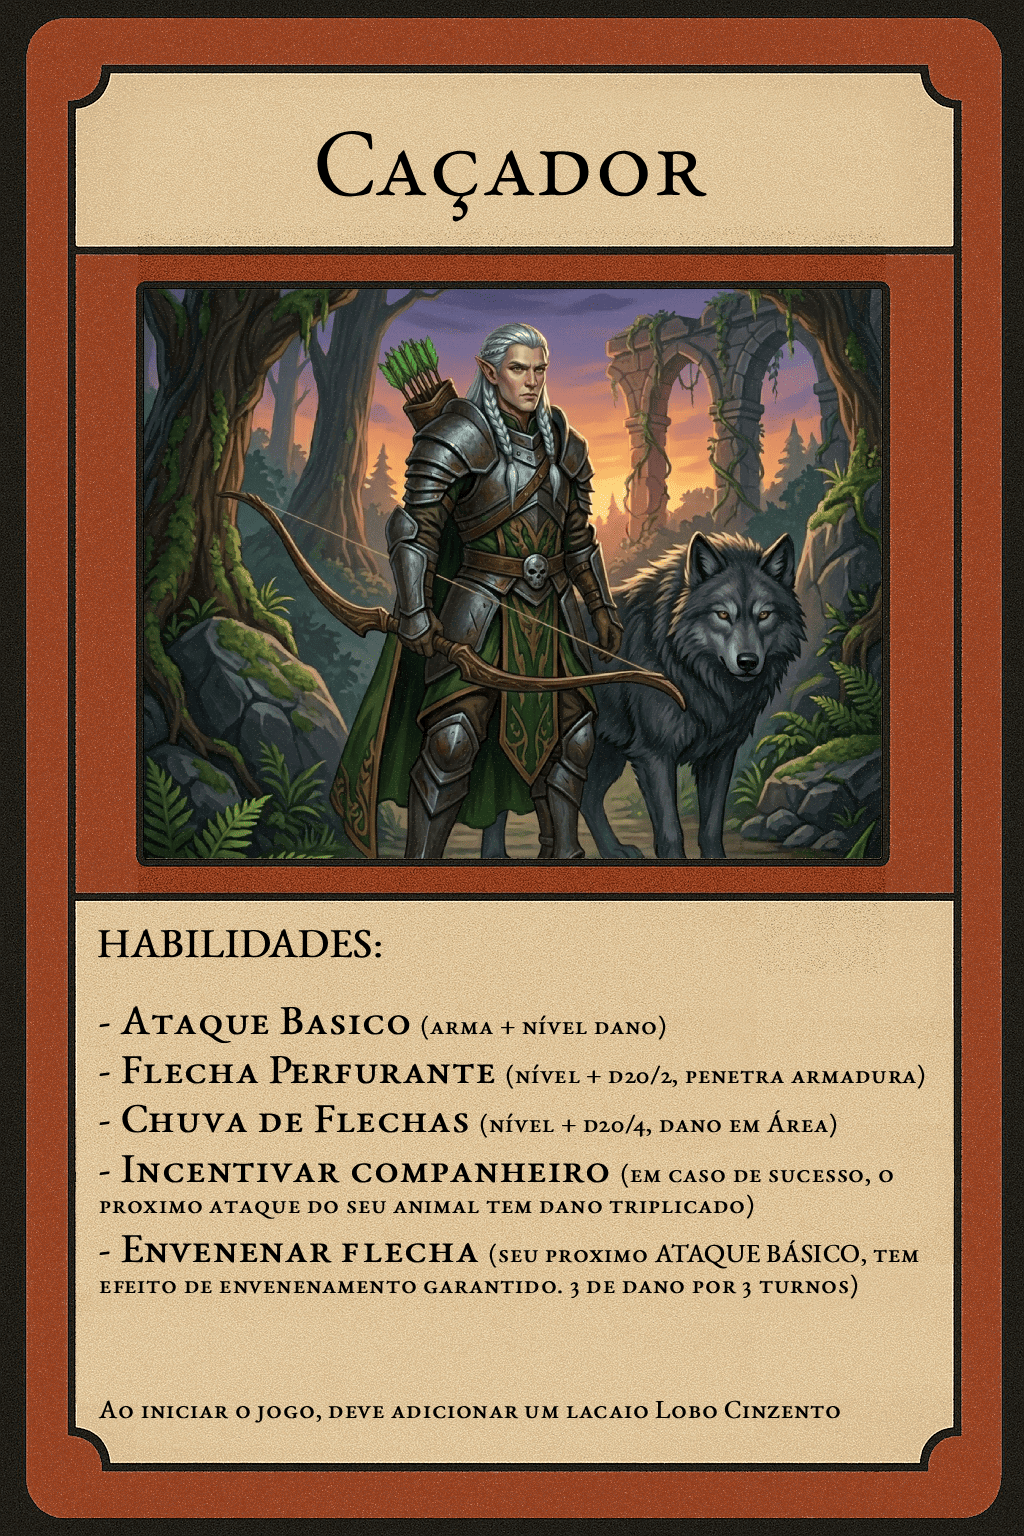
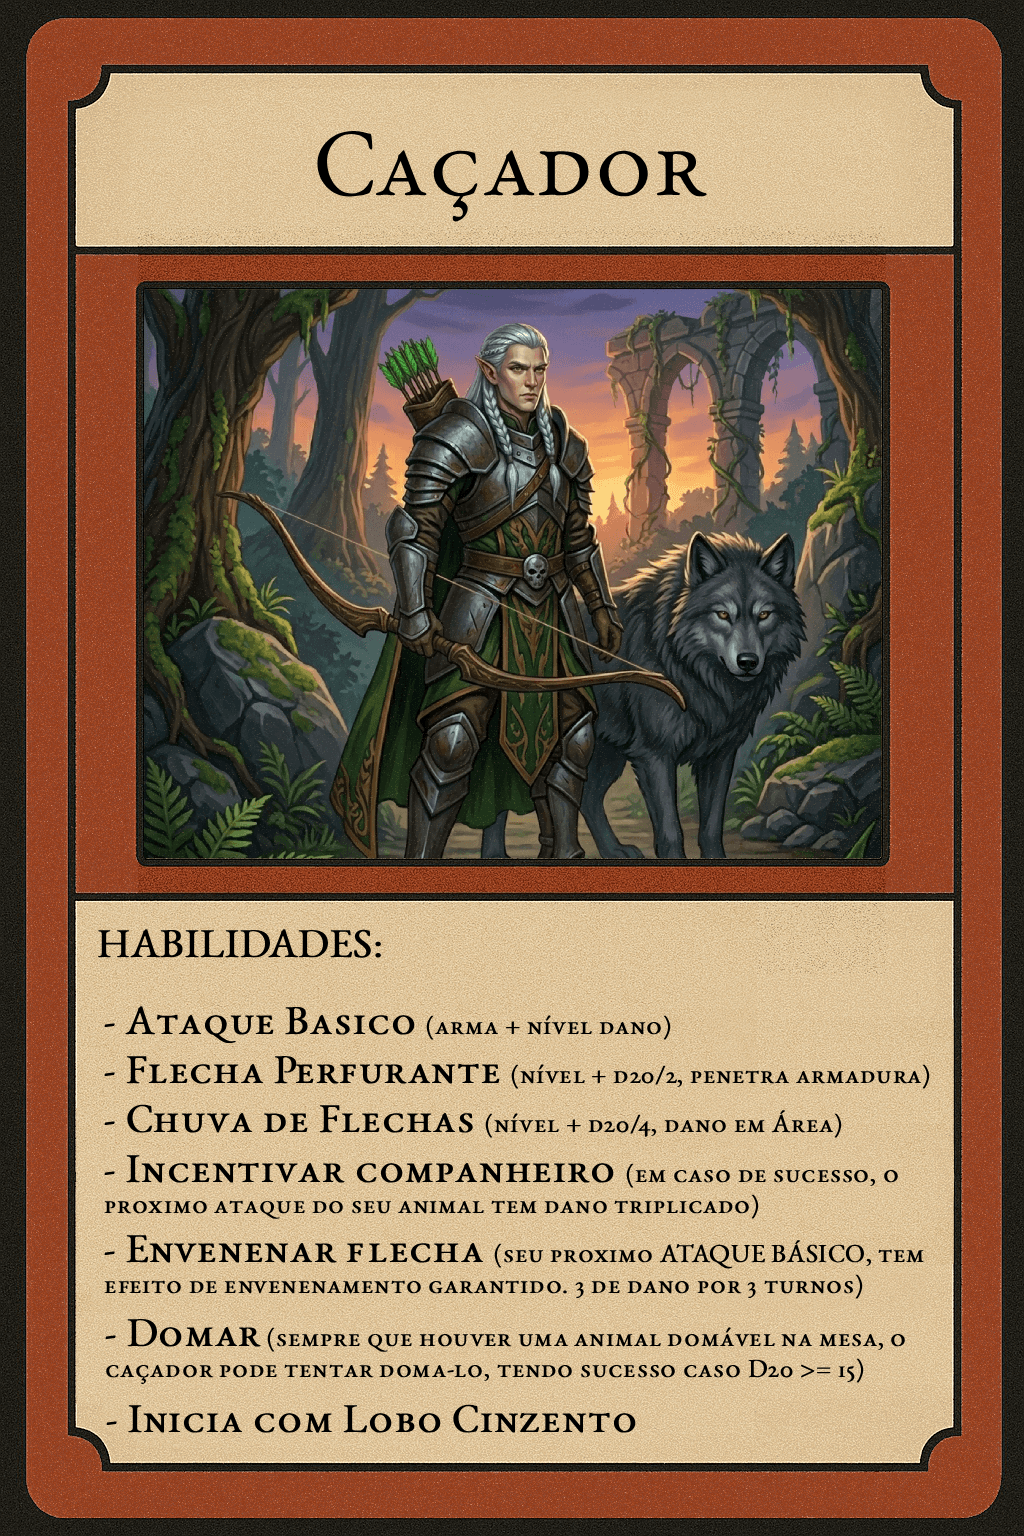
Adjusting some cards and adding new servants

diff --git a/src/app/static/cards.ts b/src/app/static/cards.ts
@@ -25,59 +25,62 @@ export class Cards {
         new CardModel(3, "Aracnofobia", '/assets/cards/vd/aracnofobia.png', false, 0),
         new CardModel(4, "Abençoado", '/assets/cards/vd/blessed.png', false, 0),
         new CardModel(5, "Reflexos de Gato", '/assets/cards/vd/cat-reflexes.png', false, 0),
-        new CardModel(6, "Cleptomaniaco", '/assets/cards/vd/cleptomaniac.png', false, 0),
-        new CardModel(7, "Sorte Dupla", '/assets/cards/vd/double-luck.png', false, 0),
-        new CardModel(8, "Aura Amedrontadora", '/assets/cards/vd/fearsome-aura.png', false, 0),
-        new CardModel(9, "Metamorfose Parcial", '/assets/cards/vd/half-metamorfosis.png', false, 0),
-        new CardModel(10, "Dom de Cura", '/assets/cards/vd/healing-gift.png', false, 0),
-        new CardModel(11, "Vício em Alquimia", '/assets/cards/vd/mad-alchemist.png', false, 0),
-        new CardModel(12, "Medo do Escuro", '/assets/cards/vd/fear-of-dark.png', false, 0),
-        new CardModel(13, "Visão Noturna", '/assets/cards/vd/night-vision.png', false, 0),
-        new CardModel(14, "Vampirismo", '/assets/cards/vd/vampirism.png', false, 0),
-        new CardModel(15, "Grito de Guerra", '/assets/cards/vd/war-scream.png', false, 0),
-        new CardModel(16, "Perito em Armas", '/assets/cards/vd/weapon-master.png', false, 0),
+        new CardModel(6, "Sorte Dupla", '/assets/cards/vd/double-luck.png', false, 0),
+        new CardModel(7, "Aura Amedrontadora", '/assets/cards/vd/fearsome-aura.png', false, 0),
+        new CardModel(8, "Metamorfose Parcial", '/assets/cards/vd/half-metamorfosis.png', false, 0), //Adicionar + 2 de dano desarmado
+        new CardModel(9, "Dom de Cura", '/assets/cards/vd/healing-gift.png', false, 0),
+        new CardModel(10, "Medo do Escuro", '/assets/cards/vd/fear-of-dark.png', false, 0),
+        new CardModel(11, "Visão Noturna", '/assets/cards/vd/night-vision.png', false, 0),
+        new CardModel(12, "Vampirismo", '/assets/cards/vd/vampirism.png', false, 0),
+        new CardModel(13, "Grito de Guerra", '/assets/cards/vd/war-scream.png', false, 0),
+        new CardModel(14, "Perito em Armas", '/assets/cards/vd/weapon-master.png', false, 0), // Adicionar + 2 de dano com arma, e -2 de dano desarmado
+        //new CardModel(15, "Cleptomaniaco", '/assets/cards/vd/cleptomaniac.png', false, 0),
+        //new CardModel(16, "Vício em Alquimia", '/assets/cards/vd/mad-alchemist.png', false, 0),
     ];
 
     public itens = [
-        new CardModel(1, "Adaga Básica", '/assets/cards/itens/adaga-basica.png', true, 1, 'melee', 3),
-        new CardModel(2, "Adaga do Adepto", '/assets/cards/itens/adaga-adepto.png', true, 2, 'melee', 3),
-        new CardModel(3, "Adaga Avançada", '/assets/cards/itens/adaga-avancada.png', true, 3, 'melee', 3),
-        new CardModel(4, "Cajado Básico", '/assets/cards/itens/cajado-basico.png', true, 1, 'magic', 1),
-        new CardModel(5, "Cajado do Adepto", '/assets/cards/itens/cajado-adepto.png', true, 2, 'magic', 1),
-        new CardModel(6, "Cajado Avançado", '/assets/cards/itens/cajado-avancado.png', true, 3, 'magic', 1),
-        new CardModel(7, "Espada Básica", '/assets/cards/itens/espada-basica.png', true, 1, 'melee', 2),
-        new CardModel(8, "Espada do Adepto", '/assets/cards/itens/espada-adepto.png', true, 2, 'melee', 2),
-        new CardModel(9, "Espada Avançada", '/assets/cards/itens/espada-avancada.png', true, 3, 'melee', 2),
-        new CardModel(10, "Tomo Básico", '/assets/cards/itens/tomo-basico.png', true, 1, 'magic', 4),
-        new CardModel(11, "Tomo do Adepto", '/assets/cards/itens/tomo-adepto.png', true, 2, 'magic', 4),
-        new CardModel(12, "Tomo Avançado", '/assets/cards/itens/tomo-avancado.png', true, 3, 'magic', 4),
+        // armas: lootWeight 3/3/1 = tier de dano (1 / 2 / 3)
+        new CardModel(1, "Adaga Básica", '/assets/cards/itens/adaga-basica.png', true, 1, 'melee', 3, 3, false),
+        new CardModel(2, "Adaga do Adepto", '/assets/cards/itens/adaga-adepto.png', true, 2, 'melee', 3, 3, false),
+        new CardModel(3, "Adaga Avançada", '/assets/cards/itens/adaga-avancada.png', true, 3, 'melee', 3, 1, false),
+        new CardModel(4, "Cajado Básico", '/assets/cards/itens/cajado-basico.png', true, 1, 'magic', 1, 3, false),
+        new CardModel(5, "Cajado do Adepto", '/assets/cards/itens/cajado-adepto.png', true, 2, 'magic', 1, 3, false),
+        new CardModel(6, "Cajado Avançado", '/assets/cards/itens/cajado-avancado.png', true, 3, 'magic', 1, 1, false),
+        new CardModel(7, "Espada Básica", '/assets/cards/itens/espada-basica.png', true, 1, 'melee', 2, 3, false),
+        new CardModel(8, "Espada do Adepto", '/assets/cards/itens/espada-adepto.png', true, 2, 'melee', 2, 3, false),
+        new CardModel(9, "Espada Avançada", '/assets/cards/itens/espada-avancada.png', true, 3, 'melee', 2, 1, false),
+        new CardModel(10, "Tomo Básico", '/assets/cards/itens/tomo-basico.png', true, 1, 'magic', 4, 3, false),
+        new CardModel(11, "Tomo do Adepto", '/assets/cards/itens/tomo-adepto.png', true, 2, 'magic', 4, 3, false),
+        new CardModel(12, "Tomo Avançado", '/assets/cards/itens/tomo-avancado.png', true, 3, 'magic', 4, 1, false),
+        // consumíveis: lootWeight omitido = 8 (comum); mais baixo = mais raro no baú
         new CardModel(13, "Bomba de Fumaça", '/assets/cards/itens/bomba-fumaca.png', false, 0),
-        new CardModel(14, "Coração de Dragão", '/assets/cards/itens/coracao-dragao.png', false, 0),
+        new CardModel(14, "Coração de Dragão", '/assets/cards/itens/coracao-dragao.png', false, 0, null, 0, 1), //muito raro
         new CardModel(15, "Óleo de Lentidão", '/assets/cards/itens/oleo-lentidao.png', false, 0),
-        new CardModel(16, "Pergaminho da Morte", '/assets/cards/itens/pergaminho-morte.png', false, 0),
-        new CardModel(17, "Pergaminho de Retorno", '/assets/cards/itens/pergaminho-retorno.png', false, 0),
-        new CardModel(18, "Poção Explosiva", '/assets/cards/itens/pocao-explosiva.png', false, 0),
+        new CardModel(16, "Pergaminho da Morte", '/assets/cards/itens/pergaminho-morte.png', false, 0, null, 0, 1), //muito raro
+        new CardModel(17, "Pergaminho de Retorno", '/assets/cards/itens/pergaminho-retorno.png', false, 0, null, 0, 3), //raro
+        new CardModel(18, "Poção Explosiva", '/assets/cards/itens/pocao-explosiva.png', false, 0, null, 0, 3),
         new CardModel(19, "Poção de Força", '/assets/cards/itens/pocao-forca.png', false, 0),
-        new CardModel(20, "Poção da Invisibilidade", '/assets/cards/itens/pocao-invisibilidade.png', false, 0),
+        new CardModel(20, "Poção da Invisibilidade", '/assets/cards/itens/pocao-invisibilidade.png', false, 0, null, 0, 3),
         new CardModel(21, "Poção de Mana", '/assets/cards/itens/pocao-mana.png', false, 0),
         new CardModel(22, "Poção de Restauração", '/assets/cards/itens/pocao-pv.png', false, 0),
         new CardModel(23, "Poção de Resistência", '/assets/cards/itens/pocao-resistencia.png', false, 0),
-        new CardModel(24, "Poção da Vida", '/assets/cards/itens/pocao-reviver.png', false, 0),
-        new CardModel(25, "Veneno Maior", '/assets/cards/itens/veneno-maior.png', false, 0),
+        new CardModel(24, "Poção da Vida", '/assets/cards/itens/pocao-reviver.png', false, 0, null, 0, 1),
+        new CardModel(25, "Veneno Maior", '/assets/cards/itens/veneno-maior.png', false, 0, null, 0, 3),
         new CardModel(26, "Veneno Menor", '/assets/cards/itens/veneno-menor.png', false, 0),
-        new CardModel(27, "Arco Básico", '/assets/cards/itens/arco-basico.png', true, 1, 'melee', 5),
-        new CardModel(28, "Arco do Adepto", '/assets/cards/itens/arco-adepto.png', true, 2, 'melee', 5),
-        new CardModel(29, "Arco Avançado", '/assets/cards/itens/arco-avancado.png', true, 3, 'melee', 5),
-        new CardModel(30, "Martelo Básico", '/assets/cards/itens/martelo-basico.png', true, 1, 'melee', 6),
-        new CardModel(31, "Martelo do Adepto", '/assets/cards/itens/martelo-adepto.png', true, 2, 'melee', 6),
-        new CardModel(32, "Martelo Avançado", '/assets/cards/itens/martelo-avancado.png', true, 3, 'melee', 6),
+        new CardModel(27, "Arco Básico", '/assets/cards/itens/arco-basico.png', true, 1, 'melee', 5, 3, false),
+        new CardModel(28, "Arco do Adepto", '/assets/cards/itens/arco-adepto.png', true, 2, 'melee', 5, 3, false),
+        new CardModel(29, "Arco Avançado", '/assets/cards/itens/arco-avancado.png', true, 3, 'melee', 5, 1, false),
+        new CardModel(30, "Martelo Básico", '/assets/cards/itens/martelo-basico.png', true, 1, 'melee', 6, 3, false),
+        new CardModel(31, "Martelo do Adepto", '/assets/cards/itens/martelo-adepto.png', true, 2, 'melee', 6, 3, false),
+        new CardModel(32, "Martelo Avançado", '/assets/cards/itens/martelo-avancado.png', true, 3, 'melee', 6, 1, false),
     ];
 
     public stones = [
-        new CardModel(1, "Pedra Arcana", '/assets/cards/magic/arcane-stone.png', false, 0, null, 0, true),
-        new CardModel(2, "Pedra da Morte", '/assets/cards/magic/death-stone.png', false, 0, null, 0, true),
-        new CardModel(3, "Pedra Elemental", '/assets/cards/magic/elemental-stone.png', false, 0, null, 0, true),
-        new CardModel(4, "Pedra Sagrada", '/assets/cards/magic/holy-stone.png', false, 0, null, 0, true),
+        // pedras: mesmo peso entre si (1) no sorteio do baú
+        new CardModel(1, "Pedra Arcana", '/assets/cards/magic/arcane-stone.png', false, 0, null, 0, 1, true),
+        new CardModel(2, "Pedra da Morte", '/assets/cards/magic/death-stone.png', false, 0, null, 0, 1, true),
+        new CardModel(3, "Pedra Elemental", '/assets/cards/magic/elemental-stone.png', false, 0, null, 0, 1, true),
+        new CardModel(4, "Pedra Sagrada", '/assets/cards/magic/holy-stone.png', false, 0, null, 0, 1, true),
     ];
 
 
@@ -136,7 +139,7 @@ export class Cards {
     ];
 
     public servants: ServantCardModel[] = [
-        new ServantCardModel(1, "Aragrog", '/assets/cards/servants/aragrog.png', 'tamed'),
+        new ServantCardModel(1, "Aragrog", '/assets/cards/servants/aragrog.png', 'tamed', { damageBonus: 2 }),
         new ServantCardModel(2, "Aranha Espectral", '/assets/cards/servants/aranha-espectral.png', 'natural_magic', { servantHp: 15 }),
         new ServantCardModel(3, "Aranha Espreitadora", '/assets/cards/servants/aranha-espreitadora.png', 'tamed'),
         new ServantCardModel(4, "Cão Raivoso", '/assets/cards/servants/cao-raivoso.png', 'tamed'),
@@ -144,5 +147,10 @@ export class Cards {
         new ServantCardModel(6, "Esqueleto Superior", '/assets/cards/servants/esqueleto-superior.png', 'necromancy', { turnDuration: 5, damageBonus: 5 }),
         new ServantCardModel(7, "Lobo Espetral", '/assets/cards/servants/lobo-espetral.png', 'natural_magic', { servantHp: 25 }),
         new ServantCardModel(8, "Lobo Cinzento", '/assets/cards/servants/lobo-lacaio.png', 'tamed'),
+        new ServantCardModel(9, "Aranha de Sangue", '/assets/cards/servants/aranha-de-sangue.png', 'tamed'),
+        new ServantCardModel(10, "Inseto Cinzento", '/assets/cards/servants/inseto-cinzento.png', 'tamed'),
+        new ServantCardModel(11, "Sapo Venenoso", '/assets/cards/servants/sapo-venenoso.png', 'tamed'),
+        new ServantCardModel(12, "Vespa Assassina", '/assets/cards/servants/vespa-assassina.png', 'tamed'),
+
     ];
 }

diff --git a/src/app/game-components/game.ts b/src/app/game-components/game.ts
@@ -32,6 +32,13 @@ import {
 })
 export class Game {
 
+    /**
+     * Chance por carta de loot do baú de ser arma (o resto sai só de consumíveis).
+     * Antes era ~62% arma/slot (20/32); com 0.1 fica ~10% por slot.
+     * Peso de cada carta: `CardModel.lootWeight` em `cards.ts`.
+     */
+    private static readonly TREASURE_WEAPON_SLOT_CHANCE = 0.1;
+
     private readonly persistence = inject(GamePersistenceService);
 
     constructor(private modalCtrl: ModalController) {
@@ -584,29 +591,68 @@ export class Game {
             this.vdCardsForCarousel.set([]);
             this.hasVD.set(true);
             this.vdCard.set(card.source);
+
+            if(id == 8){
+                this.damage.set(this.damage() + 2);
+            } else if(id == 14) {
+                this.damage.set(this.damage() - 2);
+            }
         } else {
             this.vdCardsForCarousel.set([]);
         }
     }
 
-    // Chest
+    /** Sorteio ponderado com `lootWeight` definido em cada carta (`cards.ts`). */
+    private pickRandomLootWeighted(cards: CardModel[]): CardModel {
+        const weights = cards.map((c) => {
+            const w = c.lootWeight;
+            return typeof w === 'number' && w > 0 ? w : 8;
+        });
+        const total = weights.reduce((s, n) => s + n, 0);
+        let r = Math.random() * total;
+        for (let i = 0; i < cards.length; i++) {
+            r -= weights[i];
+            if (r <= 0) {
+                return cards[i];
+            }
+        }
+        return cards[cards.length - 1];
+    }
 
+    /**
+     * Consumíveis (não-arma) vs armas em pools separados: armas são raras no baú.
+     */
+    private pickTreasureItemCard(consumables: CardModel[], weapons: CardModel[]): CardModel {
+        if (weapons.length === 0) {
+            return this.pickRandomLootWeighted(consumables);
+        }
+        if (consumables.length === 0) {
+            return this.pickRandomLootWeighted(weapons);
+        }
+        if (Math.random() < Game.TREASURE_WEAPON_SLOT_CHANCE) {
+            return this.pickRandomLootWeighted(weapons);
+        }
+        return this.pickRandomLootWeighted(consumables);
+    }
+
+    // Chest
     public treasureShuffle() {
-        let itemCards = this.cards.itens;
-        let stoneCards = this.cards.stones;
+        const itemCards = this.cards.itens;
+        const consumables = itemCards.filter((c) => !c.isWeapon);
+        const weapons = itemCards.filter((c) => c.isWeapon);
+        const stoneCards = this.cards.stones;
 
         let qtdItens = Math.floor(Math.random() * 2) + 1;
         let qtdPedras = Math.floor(Math.random() * 2) + 1;
 
         for (let index = 0; index < qtdItens; index++) {
-            const card = itemCards[Math.floor(Math.random() * itemCards.length)];
-            this.chestReceivedItens.update(cards => [...cards, card]);
+            const card = this.pickTreasureItemCard(consumables, weapons);
+            this.chestReceivedItens.update((cards) => [...cards, card]);
         }
 
         for (let index = 0; index < qtdPedras; index++) {
-            const card = stoneCards[Math.floor(Math.random() * stoneCards.length)];
-            
-            this.chestReceivedItens.update(cards => [...cards, card]);
+            const card = this.pickRandomLootWeighted(stoneCards);
+            this.chestReceivedItens.update((cards) => [...cards, card]);
         }
         this.openModal();
     }
@@ -649,18 +695,26 @@ export class Game {
         let selectItem = itemCards.filter(c => c.id === id)[0];
         
         if(selectItem.isWeapon) {
-            if(canEquipWeapon(this.classId(), selectItem)) {
+            if(canEquipWeapon(this.classId(), selectItem) && !this.vdCard().includes("half-metamorfosis")) {
                 this.hasWeapon.set(true);
                 this.weaponCard.set(selectItem.source);
                 this.damage.set(
                     this.level() +
                         selectItem.attack +
-                        weaponDamageBonus(this.classId(), selectItem),
+                        weaponDamageBonus(this.classId(), selectItem) +
+                        (this.vdCard().includes("weapon-master") ? 2 : 0),
                 );
             } else {
-                this.showMessage(
-                    'Esta arma não combina com o teu tipo de classe (física/mágica).',
-                );
+                if(this.vdCard().includes("half-metamorfosis")) {
+                    this.showMessage(
+                        'Sua vantagem Metamorfose Parcial não permite equipar armas.',
+                    );
+                }
+                else {
+                    this.showMessage(
+                        'Esta arma não combina com o teu tipo de classe (física/mágica).',
+                    );
+                }
                 this.showBag.set(false);
                 return;
             }

diff --git a/src/app/static/card-model.ts b/src/app/static/card-model.ts
@@ -11,11 +11,16 @@ export class CardModel {
     equipInType: WeaponEquipType | null;
     /** Id da classe que recebe +1 de dano com esta arma; `0` se não aplicável. */
     bonusInClass: number;
+    /**
+     * Peso no sorteio do baú (maior = mais comum). Armas: típico 8 / 3 / 1 por tier de dano.
+     */
+    lootWeight: number;
     isStone: boolean;
 
     /**
      * @param equipInType Tipo de arma (físico/mágico); ignorado quando `isStone === true` (pedra, não arma).
      * @param bonusInClass Classe com bónus +1 de dano; 0 quando não aplicável.
+     * @param lootWeight Peso no baú; padrão 8 (itens comuns). Pedras/ raros ajustar em `cards.ts`.
      * @param isStone Pedra mágica (não é arma).
      */
     constructor(
@@ -26,6 +31,7 @@ export class CardModel {
         attack: number,
         equipInType: WeaponEquipType | null = null,
         bonusInClass = 0,
+        lootWeight = 8,
         isStone = false,
     ) {
         this.id = id;
@@ -35,6 +41,7 @@ export class CardModel {
         this.attack = attack;
         this.equipInType = equipInType;
         this.bonusInClass = bonusInClass;
+        this.lootWeight = lootWeight;
         this.isStone = isStone;
     }
 }

diff --git a/src/app/static/servant-rules.ts b/src/app/static/servant-rules.ts
@@ -8,7 +8,7 @@ export type ServantDamageContext = {
 export function getServantDamage(servant: ServantCardModel, ctx: ServantDamageContext): number {
     switch (servant.kind) {
         case 'tamed':
-            return Math.ceil(ctx.playerLevel / 2);
+            return Math.ceil(ctx.playerLevel / 2) + (servant.damageBonus ?? 0);
         case 'natural_magic':
             return ctx.playerBaseDamage;
         case 'necromancy':

diff --git a/src/app/static/servant-card-model.ts b/src/app/static/servant-card-model.ts
@@ -24,7 +24,7 @@ export class ServantCardModel extends CardModel {
         kind: ServantKind,
         opts: ServantCardOpts = {}
     ) {
-        super(id, name, source, false, 0, null, 0, false);
+        super(id, name, source, false, 0, null, 0, 8, false);
         this.kind = kind;
         if (opts.servantHp !== undefined) {
             this.servantHp = opts.servantHp;
